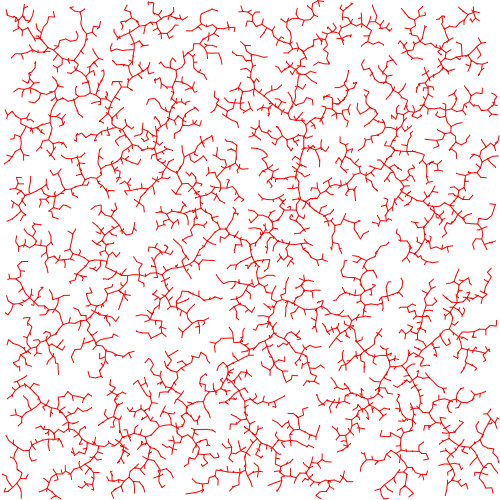
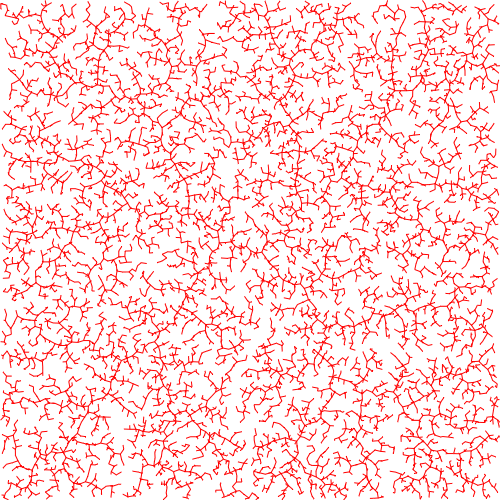
Add method to generate single vertex at a time

diff --git a/samples/MichelMichels.RttSharp.Demo/Program.cs b/samples/MichelMichels.RttSharp.Demo/Program.cs
@@ -15,13 +15,22 @@ Console.WriteLine("Rapidly Exploring Random Tree Generator Demo");
 RapidlyExploringRandomTreeGenerator generator = new();
 
 System.Drawing.PointF startVertex = new(250, 250);
-int vertexCount = 5000;
+int vertexCount = 10000;
 int width = 500;
 int height = 500;
 double distance = 6.0;
-RapidlyExploringRandomTree rtt = generator.Build(startVertex, vertexCount, width, height, distance);
 
-Console.WriteLine($"Generated {rtt.Vertices.Count} vertices and {rtt.Edges.Count} edges.");
+Stopwatch sw = Stopwatch.StartNew();
+
+RapidlyExploringRandomTree rtt = generator.Build(startVertex, vertexCount, width, height, distance);
+// RapidlyExploringRandomTree rtt = new();
+
+// for (int i = 0; i < vertexCount; i++)
+// {
+//     generator.GenerateNextVertex(rtt, width, height, distance);
+// }
+sw.Stop();
+Console.WriteLine($"Generated {rtt.Vertices.Count} vertices and {rtt.Edges.Count} edges in {sw.ElapsedMilliseconds} ms.");
 
 using Image<Rgba32> image = new(width, height);
 image.Mutate(ctx => ctx.Fill(Color.White));
@@ -37,6 +46,17 @@ foreach (LineF edge in rtt.Edges)
             new PointF(edge.End.X, edge.End.Y)
             );
     });
+
+    // int index = rtt.Edges.IndexOf(edge);
+    // if (index % 50 == 0)
+    // {
+    //     Console.WriteLine($"Drawing edge {index}/{rtt.Edges.Count}");
+    //     image.Save("output.png");
+
+    //     await Task.Delay(200);
+    // }
 }
 
 image.Save("output.png");
+
+Console.WriteLine("Image saved as output.png");

diff --git a/src/MichelMichels.RttSharp/RapidlyExploringRandomTreeGenerator.cs b/src/MichelMichels.RttSharp/RapidlyExploringRandomTreeGenerator.cs
@@ -14,15 +14,20 @@ public class RapidlyExploringRandomTreeGenerator
 
         for (int i = 0; i < vertexCount; i++)
         {
-            PointF randomVertex = GenerateRandomVertex(width, height);
-            PointF nearestVertex = CalculateNearestVertex(randomVertex, rtt.Vertices);
-            PointF newVertex = StepFromPointToPoint(nearestVertex, randomVertex, distance);
-
-            rtt.Vertices.Add(newVertex);
-            rtt.Edges.Add(new LineF(nearestVertex, newVertex));
+            GenerateNextVertex(rtt, width, height, distance);
         }
 
         return rtt;
+    }
+
+    public void GenerateNextVertex(RapidlyExploringRandomTree rtt, int width, int height, double distance)
+    {
+        PointF randomVertex = GenerateRandomVertex(width, height);
+        PointF nearestVertex = CalculateNearestVertex(randomVertex, rtt.Vertices);
+        PointF newVertex = StepFromPointToPoint(nearestVertex, randomVertex, distance);
+
+        rtt.Vertices.Add(newVertex);
+        rtt.Edges.Add(new LineF(nearestVertex, newVertex));
     }
 
     private PointF GenerateRandomVertex(int width, int height)
@@ -33,6 +38,11 @@ public class RapidlyExploringRandomTreeGenerator
     }
     private PointF CalculateNearestVertex(PointF vertex, List<PointF> vertices)
     {
+        if (vertices.Count == 0)
+        {
+            return vertex;
+        }
+
         PointF nearest = vertices[0];
 
         foreach (PointF v in vertices)
